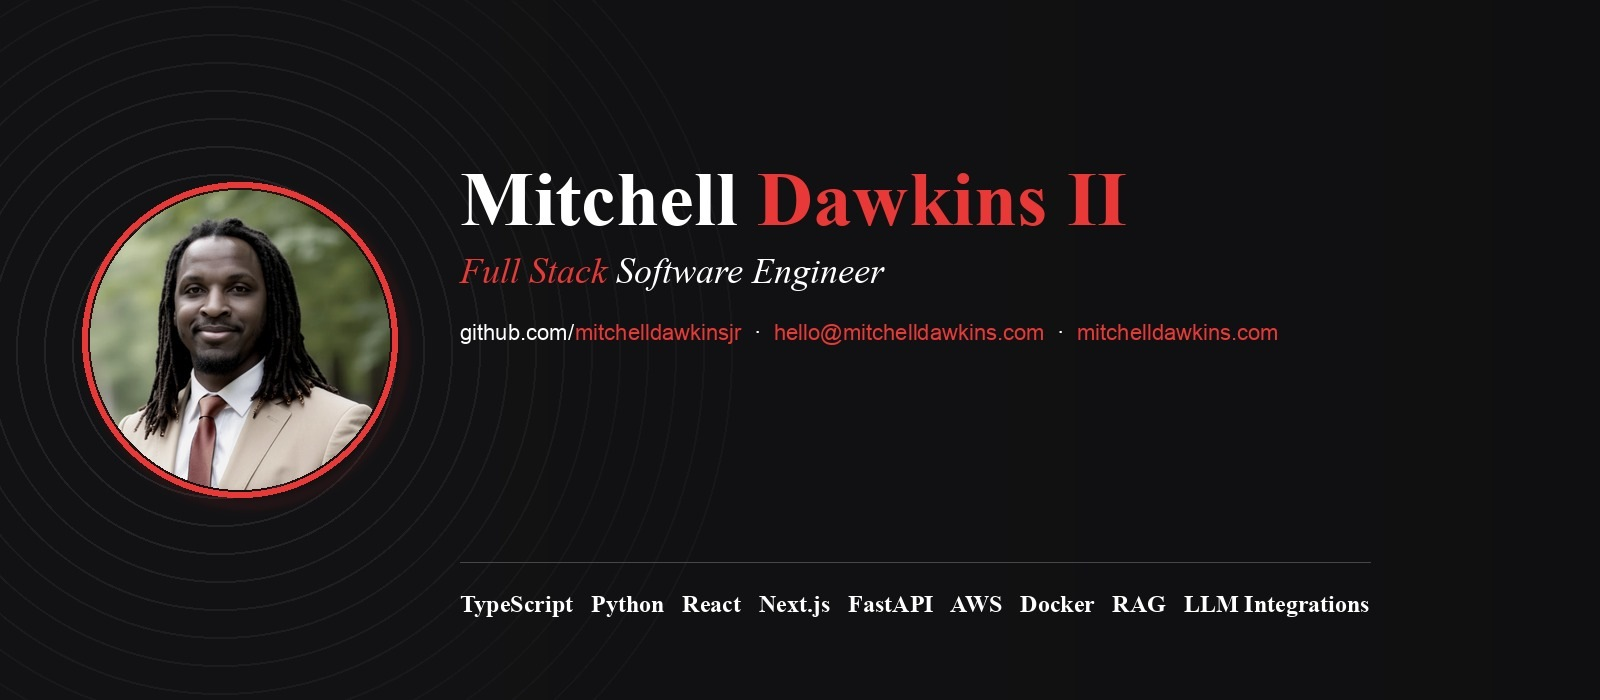
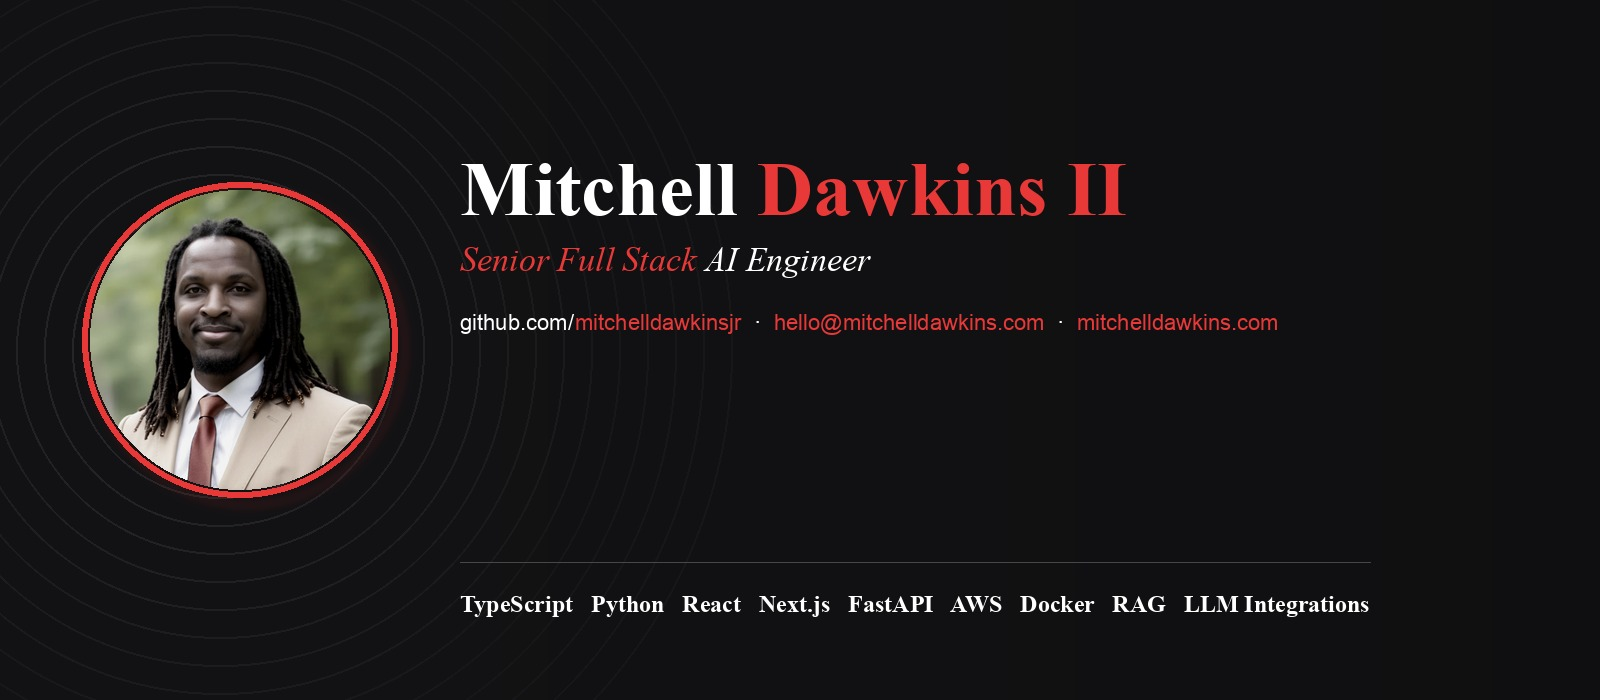
Use Senior Full Stack AI Engineer title; remove AdHoc mentions

Changed region(s): [[0.2812, 0.21, 0.7188, 0.42], [0.2812, 0.45, 0.8125, 0.51]]

diff --git a/README.md b/README.md
@@ -1,6 +1,6 @@
-![Mitchell Dawkins II — Software Engineer](./github-mitchell-dawkins-software-engineer.jpg)
+![Mitchell Dawkins II — Senior Full Stack AI Engineer](./github-mitchell-dawkins-software-engineer.jpg)
 
-Full-stack engineer with **10+ years** building scalable web apps across enterprise and growth-stage environments. Dropbox alum. Currently building federal/enterprise software at AdHoc Research Associates — and shipping open-source AI tooling, self-hosted infra, and sports analytics on the side.
+Senior full-stack AI engineer with **10+ years** building scalable web apps across enterprise and growth-stage environments. Dropbox alum. Shipping open-source AI tooling, agent workflows, self-hosted infra, and sports analytics.
 
 I believe we're at an inflection point where AI, used with experience and solid fundamentals, can dramatically change how we build software.
 
@@ -46,6 +46,5 @@ More on [mitchelldawkins.com/projects](https://mitchelldawkins.com/projects) · 
 
 ### Currently
 
-- Senior Computer Programmer @ AdHoc Research Associates (enterprise PHP / Vue)
-- Experimenting with agent pipelines, self-hosted infra, and coaching tooling
+- Building AI agent pipelines, self-hosted infra, and coaching tooling
 - Helping run the [Dawkins Family Foundation](https://dawkinsfamilyfoundation.org/)
